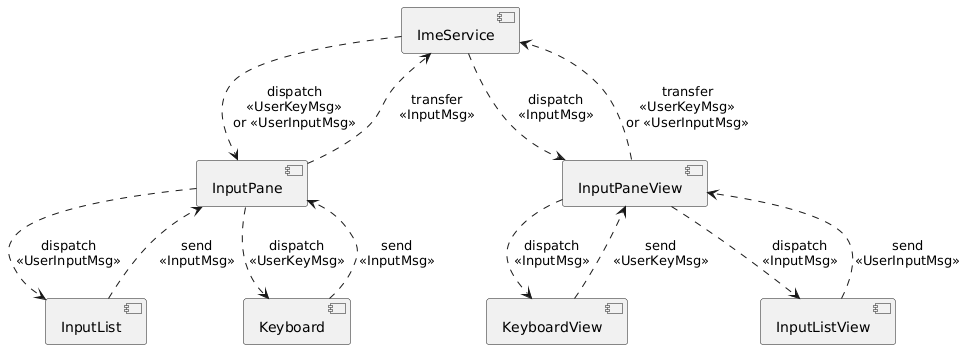
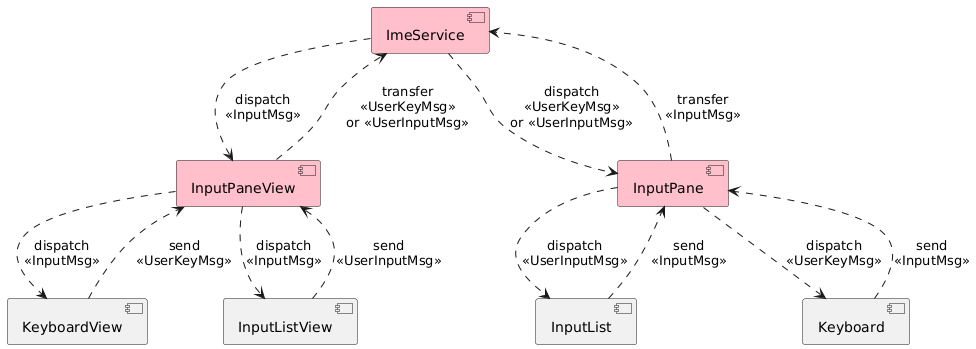
Update README.md

diff --git a/README.md b/README.md
@@ -42,9 +42,9 @@ EOF
 
 ## 架构
 
-### 核心类图
+### 核心类
 
-![核心类图](./docs/img/class-diagram.png)
+![核心类](./docs/img/class-diagram.png)
 
 <details><summary>PlantUML 代码</summary>
 
@@ -102,30 +102,23 @@ keyboard <|-down- math_kb: extends
 - 与以上视图相对应的逻辑模型则分别为 `InputPane`、`InputList` 和 `Keyboard`，
   其负责对输入过程中的状态变更进行处理，实现完整的输入逻辑
 
-### 消息传播图
+### 消息流转
 
-![消息传播图](./docs/img/message-transfer.png)
+![消息流转](./docs/img/message-transfer.png)
 
 <details><summary>PlantUML 代码</summary>
 
 ```plantuml
 @startuml
-component [ImeService] as ime_svc
+component [ImeService] as ime_svc #pink
 
-component [InputPane] as input_pane
-component [InputList] as input_list
-component [Keyboard] as keyboard
-
-component [InputPaneView] as input_pane_view
+component [InputPaneView] as input_pane_view #pink
 component [KeyboardView] as keyboard_view
 component [InputListView] as input_list_view
 
-keyboard ..> input_pane: send\n<<InputMsg>>
-input_list ..> input_pane: send\n<<InputMsg>>
-input_pane ..> ime_svc: transfer\n<<InputMsg>>
-ime_svc ..> input_pane_view: dispatch\n<<InputMsg>>
-input_pane_view ..> keyboard_view: dispatch\n<<InputMsg>>
-input_pane_view ..> input_list_view: dispatch\n<<InputMsg>>
+component [InputPane] as input_pane #pink
+component [InputList] as input_list
+component [Keyboard] as keyboard
 
 keyboard_view ..> input_pane_view: send\n<<UserKeyMsg>>
 input_list_view ..> input_pane_view: send\n<<UserInputMsg>>
@@ -133,6 +126,13 @@ input_pane_view ..> ime_svc: transfer\n<<UserKeyMsg>>\nor <<UserInputMsg>>
 ime_svc ..> input_pane: dispatch\n<<UserKeyMsg>>\nor <<UserInputMsg>>
 input_pane ..> keyboard: dispatch\n<<UserKeyMsg>>
 input_pane ..> input_list: dispatch\n<<UserInputMsg>>
+
+keyboard ..> input_pane: send\n<<InputMsg>>
+input_list ..> input_pane: send\n<<InputMsg>>
+input_pane ..> ime_svc: transfer\n<<InputMsg>>
+ime_svc ..> input_pane_view: dispatch\n<<InputMsg>>
+input_pane_view ..> keyboard_view: dispatch\n<<InputMsg>>
+input_pane_view ..> input_list_view: dispatch\n<<InputMsg>>
 
 @enduml
 ```
